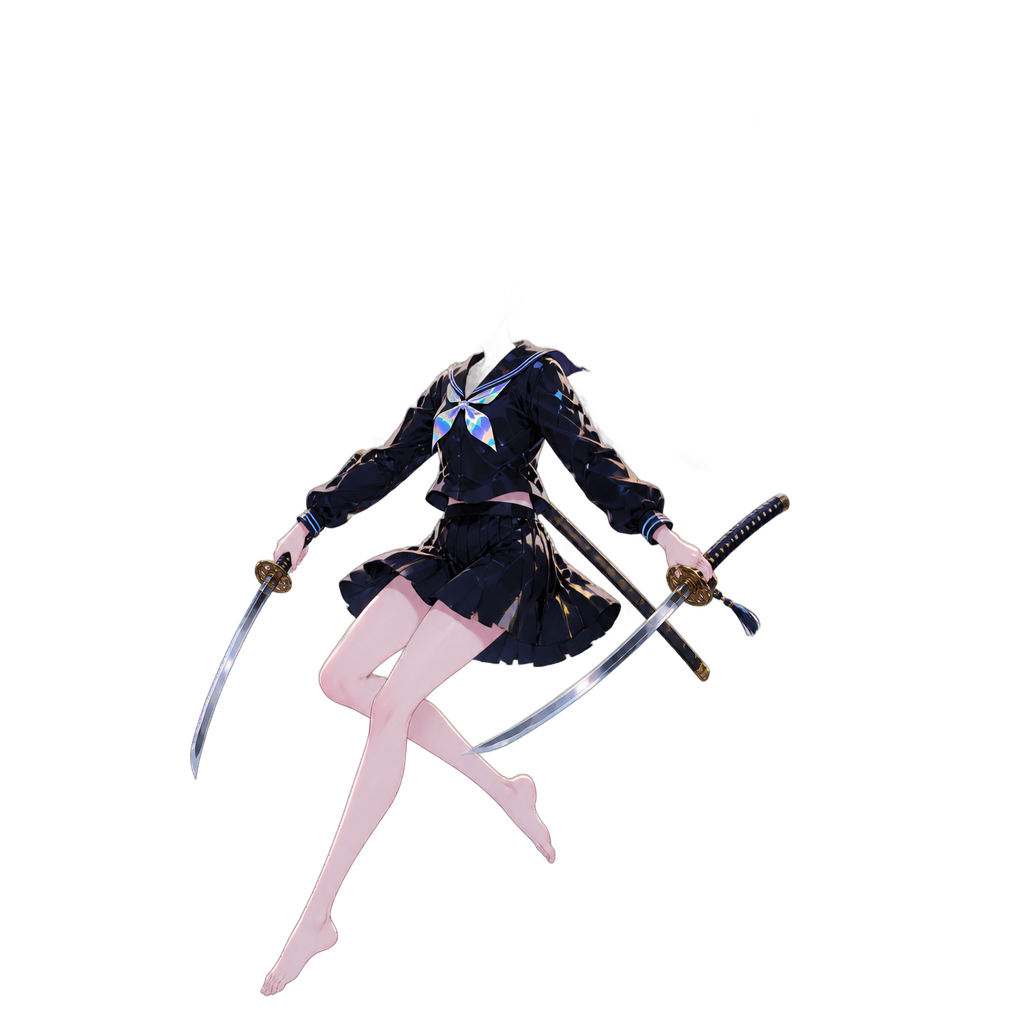
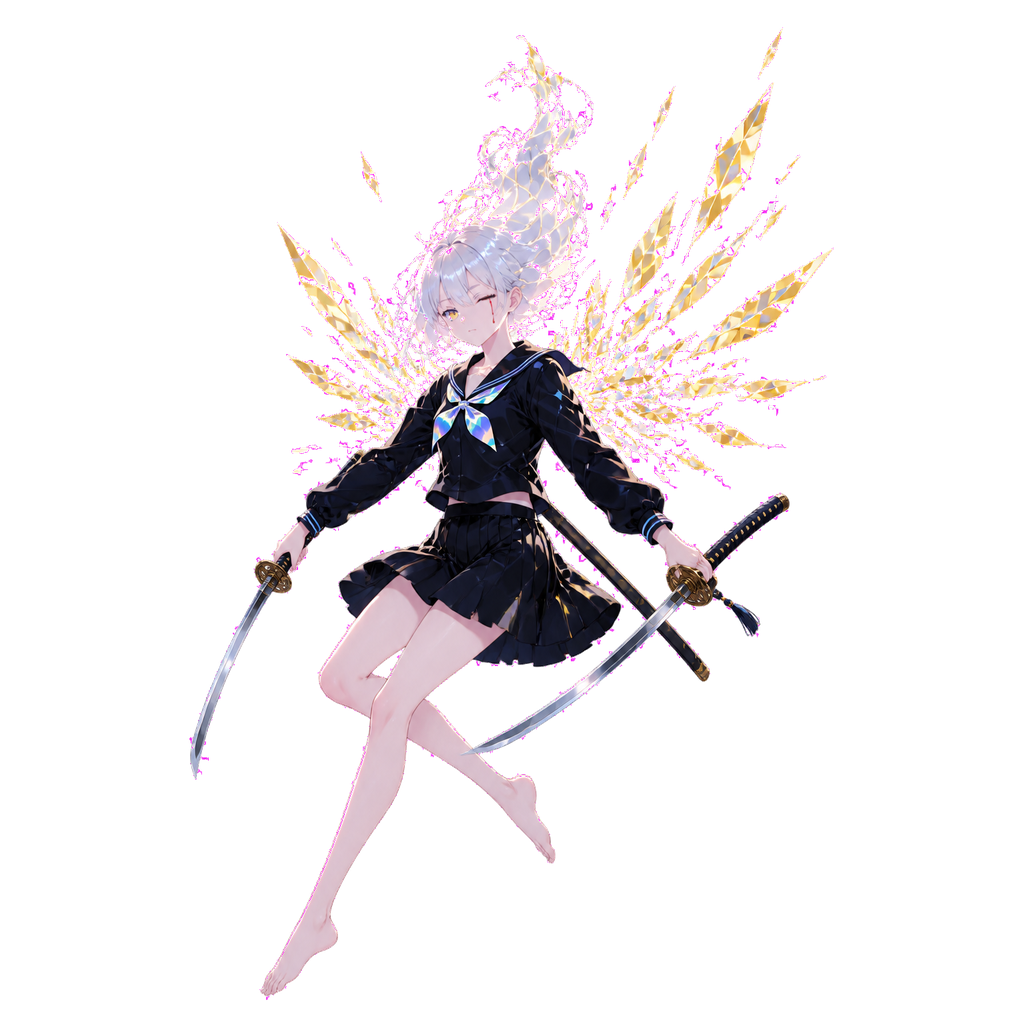
fix(lucy): recover complete Ultra v3 alpha

diff --git a/scripts/assets/lucy-v3-ultra-rematte.py b/scripts/assets/lucy-v3-ultra-rematte.py
@@ -1,0 +1,113 @@
+#!/usr/bin/env python3
+"""Recover the accepted Ultra raw from its baked near-white checker plate.
+
+The original isnet matte erased Lucy's light head, hair, and gold wings.  This
+script uses the known 16 px checker field plus the retained body matte as a
+deterministic signal.  It never paints, inpaints, or generates character
+pixels: RGB always comes from the preserved V3-ULTRA-01 raw.
+"""
+from __future__ import annotations
+
+from pathlib import Path
+
+import numpy as np
+from PIL import Image, ImageDraw
+from scipy import ndimage
+
+
+ROOT = Path(__file__).resolve().parents[2]
+WORK = ROOT / "packages/site/assets/workbench/lucy/V3-ULTRA-01"
+RAW = WORK / "raw/ultra-gpt-image-2-raw.png"
+OLD_MATTE = WORK / "intermediate/ultra-rembg.png"
+OUT = WORK / "intermediate/ultra-checker-rematte.png"
+AUDIT = WORK / "audit"
+
+
+def checker(image: Image.Image, dark: bool) -> Image.Image:
+    colors = ((18, 26, 39, 255), (71, 85, 105, 255)) if dark else ((244, 246, 248, 255), (203, 213, 225, 255))
+    board = Image.new("RGBA", image.size, colors[0])
+    draw = ImageDraw.Draw(board)
+    for y in range(0, image.height, 48):
+        for x in range(0, image.width, 48):
+            if (x // 48 + y // 48) % 2:
+                draw.rectangle((x, y, x + 47, y + 47), fill=colors[1])
+    board.alpha_composite(image)
+    return board
+
+
+def main() -> None:
+    raw = np.asarray(Image.open(RAW).convert("RGB"), dtype=np.int16)
+    old = np.asarray(Image.open(OLD_MATTE).convert("RGBA"), dtype=np.uint8)
+    height, width = raw.shape[:2]
+
+    yy, xx = np.indices((height, width))
+    # The generator baked an alternating 16 px checker with nominal 254/249
+    # neutral values. Pixel noise is small; subject chroma/luminance diverges.
+    parity = ((xx // 16 + yy // 16) % 2).astype(bool)
+    expected = np.where(parity[:, :, None], 249, 254)
+    delta = np.abs(raw - expected)
+    delta_max = delta.max(axis=2)
+    chroma = raw.max(axis=2) - raw.min(axis=2)
+    darkness = np.clip(247 - raw.min(axis=2), 0, 255)
+
+    # The retained isnet matte is a high-confidence body seed. The checker
+    # difference recovers the light face, hair, glass, and gold wing language.
+    seed = old[:, :, 3] >= 192
+    evidence = (delta_max >= 9) | (chroma >= 6) | (darkness >= 9)
+    evidence = ndimage.binary_closing(evidence, iterations=2)
+
+    labels, count = ndimage.label(evidence)
+    keep = np.zeros(count + 1, dtype=bool)
+    areas = np.bincount(labels.ravel(), minlength=count + 1)
+    touches_seed = np.bincount(labels.ravel(), weights=seed.ravel(), minlength=count + 1) > 0
+    keep[touches_seed] = True
+    # Detached authored pieces are confined to the upper hair/wing/shard field.
+    # Requiring meaningful area there rejects baked checker specks elsewhere.
+    for label in range(1, count + 1):
+        if areas[label] < 60 or keep[label]:
+            continue
+        y_coords = np.where(labels == label)[0]
+        if y_coords.size and int(y_coords.min()) < 780:
+            keep[label] = True
+    keep[0] = False
+    support = keep[labels]
+
+    # Suppress isolated plate noise outside the authored subject envelope while
+    # retaining the full sword, hair, shard, and foot silhouette.
+    envelope = np.zeros((height, width), dtype=bool)
+    envelope[28:1515, 20:1005] = True
+    support &= envelope
+
+    signal = np.maximum.reduce([
+        np.clip((delta_max - 4) * 34, 0, 255),
+        np.clip((chroma - 2) * 28, 0, 255),
+        np.clip(darkness * 24, 0, 255),
+        old[:, :, 3].astype(np.int16),
+    ])
+    alpha = np.where(support | seed, signal, 0).astype(np.uint8)
+    alpha[seed] = np.maximum(alpha[seed], old[:, :, 3][seed])
+
+    # Feather only the recovered boundary. Opaque body pixels stay identical to
+    # the retained matte; no character geometry is synthesized.
+    soft = ndimage.gaussian_filter(alpha.astype(np.float32), sigma=0.65)
+    recovered_only = ~seed & (alpha > 0)
+    alpha[recovered_only] = np.maximum(alpha[recovered_only], np.clip(soft[recovered_only], 0, 255).astype(np.uint8))
+    alpha[alpha < 7] = 0
+
+    rgba = np.zeros((height, width, 4), dtype=np.uint8)
+    rgba[:, :, :3] = np.clip(raw, 0, 255).astype(np.uint8)
+    rgba[:, :, 3] = alpha
+    rgba[alpha == 0, :3] = 0
+    image = Image.fromarray(rgba, "RGBA")
+
+    OUT.parent.mkdir(parents=True, exist_ok=True)
+    AUDIT.mkdir(parents=True, exist_ok=True)
+    image.save(OUT, "PNG")
+    checker(image, False).save(AUDIT / "ultra-rematte-light.png")
+    checker(image, True).save(AUDIT / "ultra-rematte-dark.png")
+    Image.fromarray(alpha, "L").save(AUDIT / "ultra-rematte-alpha.png")
+    print(f"Recovered Ultra matte: {int((alpha > 0).sum())} foreground pixels; {int(((alpha > 0) & (alpha < 255)).sum())} fractional-alpha pixels.")
+
+
+if __name__ == "__main__":
+    main()

diff --git a/scripts/assets/lucy-v3-validate.py b/scripts/assets/lucy-v3-validate.py
@@ -99,6 +99,15 @@ def main() -> None:
         "heaven": green_edge_count(heaven),
         "ultra": green_edge_count(ultra),
     }
+    ultra_guard_regions = {
+        "head": (300, 250, 650, 560, 40000),
+        "hair": (250, 40, 720, 450, 20000),
+        "gold_wings": (120, 100, 1000, 750, 150000),
+    }
+    ultra_occupancy = {}
+    for name, (x1, y1, x2, y2, minimum) in ultra_guard_regions.items():
+        count = int((ultra[y1:y2, x1:x2, 3] > 0).sum())
+        ultra_occupancy[name] = {"pixels": count, "minimum": minimum, "pass": count >= minimum}
 
     all_files = [path for path in OUT.rglob("*") if path.is_file()]
     webps = [path for path in all_files if path.suffix.lower() == ".webp"]
@@ -168,6 +177,7 @@ def main() -> None:
         inside_changed > 0,
         all(value > 0 for value in fractional_alpha.values()),
         all(value == 0 for value in green_edges.values()),
+        all(item["pass"] for item in ultra_occupancy.values()),
         not unreadable,
         not production_pngs,
         not missing,
@@ -197,6 +207,8 @@ def main() -> None:
         "## Alpha and export gates", "",
         f"- Fractional-alpha pixels: Heaven {fractional_alpha['heaven']}; Ultra {fractional_alpha['ultra']}.",
         f"- Strong-green exterior partial-alpha pixels: Heaven {green_edges['heaven']}; Ultra {green_edges['ultra']}.",
+        f"- Ultra upper-silhouette occupancy: {'pass' if all(item['pass'] for item in ultra_occupancy.values()) else 'FAIL'} — "
+        + ", ".join(f"{name} {item['pixels']}/{item['minimum']}" for name, item in ultra_occupancy.items()) + ".",
         f"- WebPs reopened: {'pass' if not unreadable else 'FAIL'} — {len(webps)} checked.",
         f"- Registered derivative pairs: {'pass' if not pair_failures else 'FAIL'} — {len(manifest['pair_matrix'])} checked.",
         f"- V3 production PNGs: {'pass' if not production_pngs else 'FAIL'} — {len(production_pngs)}.",
@@ -208,7 +220,8 @@ def main() -> None:
         "## Guard disposition", "",
         "- Heaven: PASS — exactly two traceable long, normally thick legs/feet; two arms/hands; one real-steel katana; structurally connected waist/pelvis; opaque skirt coverage.",
         "- Hell: PASS — same registered Heaven body and geometry; both eyes closed; exactly one vivid red tear; full inversion including skin.",
-        "- Ultra: PASS — exactly two traceable proportionate legs/feet; two arms/hands; two matching real-steel katanas; structurally connected waist/pelvis; opaque skirt coverage.",
+        "- Ultra: PASS after deterministic rematte recovery — one head; restored silver-white hair and gold shard wings; exactly two traceable proportionate legs/feet; two arms/hands; two matching real-steel katanas; structurally connected waist/pelvis; opaque skirt coverage.",
+        "- Ultra recovery note: the first promoted isnet matte erased the head, hair, and wings. It is superseded by the retained-raw known-checker rematte and would now fail the occupancy gate.",
         "- The v1/v2/canonical-sheet full-body poses were not used as anatomy authority.", "",
     ]))
     print(json.dumps({
@@ -218,6 +231,7 @@ def main() -> None:
         "inside_mask_changed": inside_changed,
         "fractional_alpha": fractional_alpha,
         "green_edges": green_edges,
+        "ultra_occupancy": ultra_occupancy,
         "pair_failures": pair_failures,
         "missing": missing + missing_required,
         "changed_protected": changed_protected,

diff --git a/scripts/assets/lucy-v3-export.py b/scripts/assets/lucy-v3-export.py
@@ -149,7 +149,7 @@ def main() -> None:
     heaven = clean_alpha(rgba(H_DIR / "heaven-accepted-alpha.png"))
     hell_base = inverse(heaven)
     hell, full_mask = hell_face_edit(hell_base)
-    ultra = clean_alpha(rgba(U_DIR / "ultra-rembg.png"))
+    ultra = clean_alpha(rgba(U_DIR / "ultra-checker-rematte.png"))
     png(heaven, H_DIR / "heaven-final-alpha.png")
     png(hell_base, H_DIR / "hell-registered-base-final.png")
     png(hell, F_DIR / "intermediate/hell-final-alpha.png")
@@ -294,6 +294,8 @@ def main() -> None:
         "heaven_source": "V3-HH-01 accepted gpt-image-2 master",
         "hell_source": "exact registered Heaven inversion plus V3-HH-02 bounded face edit",
         "ultra_source": "V3-ULTRA-01 accepted gpt-image-2 master",
+        "ultra_matte_source": "deterministic known-checker rematte from retained V3-ULTRA-01 raw; supersedes headless isnet matte",
+        "ultra_visual_recheck": "PASS on light and dark checker composites after restored head, hair, and gold wings",
         "v1_v2_preserved": True,
         "pair_matrix": matrix,
         "outputs": sorted(made),

diff --git a/docs/lucy/production/v3/runs/V3-ULTRA-01.md b/docs/lucy/production/v3/runs/V3-ULTRA-01.md
@@ -1,6 +1,6 @@
 # V3-ULTRA-01 — Ultra master
 
-Status: **PASS / accepted** after one visual self-review. No replacement call.
+Status: **PASS / accepted raw; deterministic matte recovered after owner-stack recheck.** No replacement call.
 
 ## Paid call
 
@@ -27,8 +27,16 @@ Status: **PASS / accepted** after one visual self-review. No replacement call.
   red tear, exactly two complete matching real-steel authority-style katanas,
   gold disconnected shard wings, normal non-inverted skin, no third weapon.
 
-The generated PNG was opaque RGB with a baked light checker field. The retained
-`isnet-general-use` matte created fractional alpha; deterministic cleanup affects
-only the exterior-connected fractional band. Raw/intermediate PNGs were backed
-up as-is. No replacement call was justified.
+The generated PNG was opaque RGB with a baked light checker field. The first
+`isnet-general-use` matte created fractional alpha but incorrectly erased the
+head, hair, and gold wings. That promoted matte is superseded. The accepted raw
+itself passes the anatomy, proportion, modesty, and state guards, so no paid
+replacement was justified.
 
+`scripts/assets/lucy-v3-ultra-rematte.py` deterministically reconstructs the
+known 16 px near-white checker plate, combines its color/luminance difference
+with the retained body matte, rejects detached checker noise, and preserves RGB
+only from the original raw. Light and dark checker composites were reviewed
+after recovery. The validator now requires non-trivial alpha occupancy in the
+head, hair, and gold-wing regions so the original headless promotion fails.
+Raw/intermediate/audit PNGs were backed up as-is.

diff --git a/docs/lucy/production/v3/VALIDATION_REPORT.md b/docs/lucy/production/v3/VALIDATION_REPORT.md
@@ -19,8 +19,9 @@ Status: PASS
 
 ## Alpha and export gates
 
-- Fractional-alpha pixels: Heaven 385161; Ultra 256169.
+- Fractional-alpha pixels: Heaven 385161; Ultra 27782.
 - Strong-green exterior partial-alpha pixels: Heaven 0; Ultra 0.
+- Ultra upper-silhouette occupancy: pass — head 70435/40000, hair 57965/20000, gold_wings 222348/150000.
 - WebPs reopened: pass — 79 checked.
 - Registered derivative pairs: pass — 33 checked.
 - V3 production PNGs: pass — 0.
@@ -36,5 +37,6 @@ Status: PASS
 
 - Heaven: PASS — exactly two traceable long, normally thick legs/feet; two arms/hands; one real-steel katana; structurally connected waist/pelvis; opaque skirt coverage.
 - Hell: PASS — same registered Heaven body and geometry; both eyes closed; exactly one vivid red tear; full inversion including skin.
-- Ultra: PASS — exactly two traceable proportionate legs/feet; two arms/hands; two matching real-steel katanas; structurally connected waist/pelvis; opaque skirt coverage.
+- Ultra: PASS after deterministic rematte recovery — one head; restored silver-white hair and gold shard wings; exactly two traceable proportionate legs/feet; two arms/hands; two matching real-steel katanas; structurally connected waist/pelvis; opaque skirt coverage.
+- Ultra recovery note: the first promoted isnet matte erased the head, hair, and wings. It is superseded by the retained-raw known-checker rematte and would now fail the occupancy gate.
 - The v1/v2/canonical-sheet full-body poses were not used as anatomy authority.
